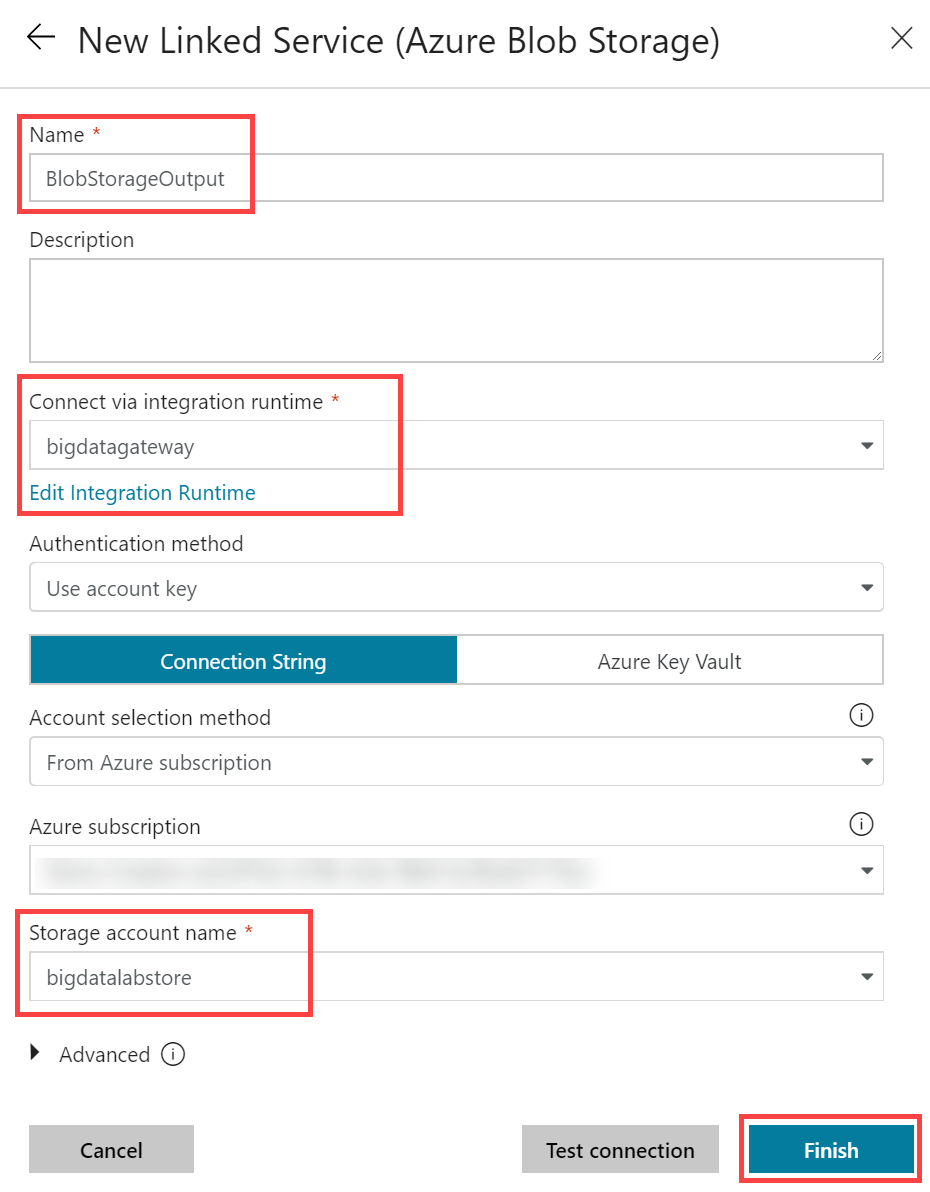
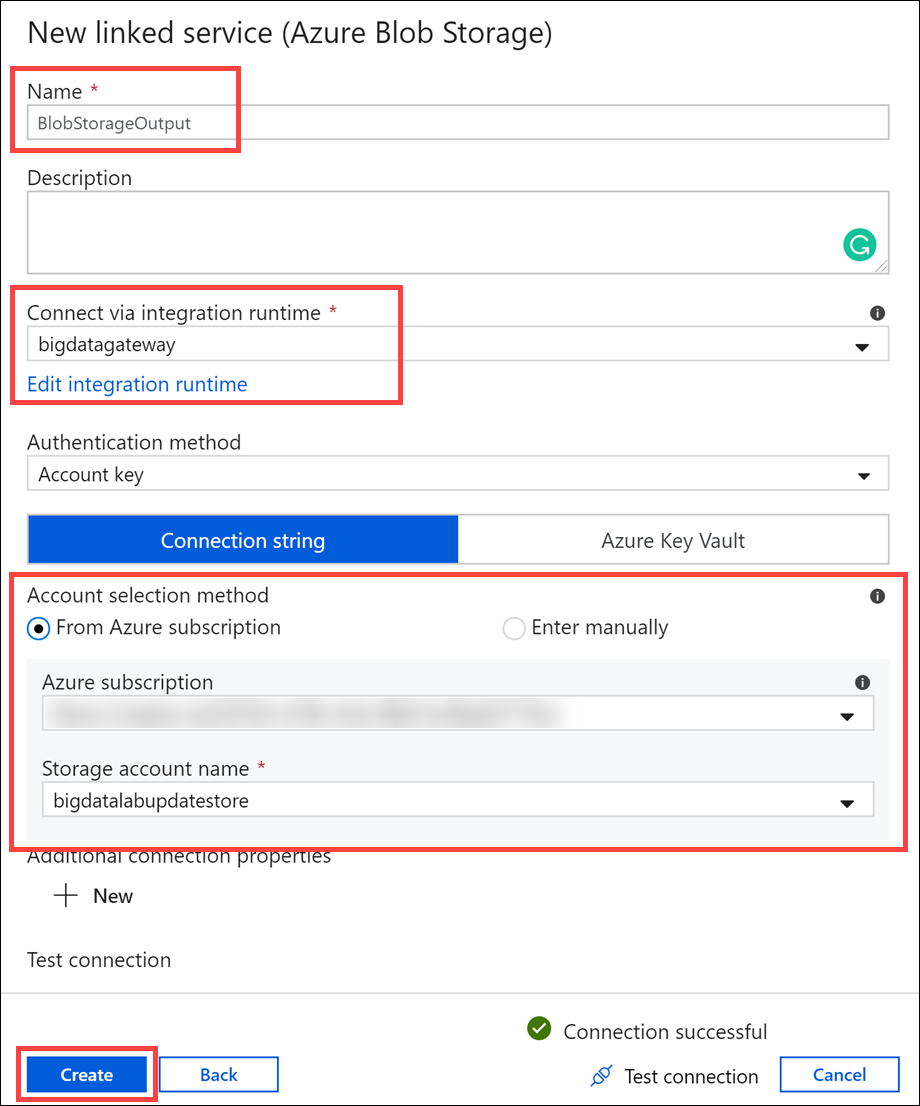
November test/fix updates to lab

diff --git a/Hands-on lab/HOL step-by-step - Big data and visualization.md b/Hands-on lab/HOL step-by-step - Big data and visualization.md
@@ -330,11 +330,11 @@ In this exercise, you will create a baseline environment for Azure Data Factory 
 
    ![Select Connections at the bottom of the page, then select the Integration Runtimes tab, and select New.](media/adf-new-ir.png 'Steps to create a new Integation Runtime connection')
 
-7. In the Integration Runtime Setup blade that appears, select "Perform data movement and dispatch activities to external computes", then select **Next**.
+7. In the Integration Runtime Setup blade that appears, select "Perform data movement and dispatch activities to external computes", then select **Continue**.
 
    ![Select Perform data movement and dispatch activities to external computes](media/adf-ir-setup-1.png 'Integration Runtime Setup step 1')
 
-8. Select **Self-Hosted** then select **Next**.
+8. Select **Self-Hosted** then select **Continue**.
 
    ![Select Private Network then Next](media/adf-ir-setup-2.png 'Integration Runtime Setup step 2')
 
@@ -427,7 +427,7 @@ In this exercise, you will create an Azure Data Factory pipeline to copy data (.
 
    - Password: **Use your machine's login password**.
 
-7. Select **Test connection** to verify you correctly entered the values. Finally, select **Finish**.
+7. Select **Test connection** to verify you correctly entered the values. Finally, select **Create**.
 
    ![On the Copy Data activity, specify File server share connection page, fields are set to the previously defined values.](media/adf-copy-data-linked-service-settings.png 'New Linked Service settings')
 
@@ -449,9 +449,7 @@ In this exercise, you will create an Azure Data Factory pipeline to copy data (.
 
     - Skip line count: **0**
 
-    - Column names in the first row: **Checked**
-
-    - Handle all of the data as strings: **Unchecked**
+    - First row as header: **Checked**
 
     ![Enter the form values](media/adf-copy-data-file-format.png 'File format settings')
 
@@ -463,7 +461,7 @@ In this exercise, you will create an Azure Data Factory pipeline to copy data (.
 
     ![Select Azure Blob Storage, then Continue](media/adf-copy-data-blob-storage.png 'Select Blob Storage')
 
-14. On the New Linked Service (Azure Blob Storage) account screen, enter the following and then choose **Finish**.
+14. On the New Linked Service (Azure Blob Storage) account screen, enter the following and then select **Create**.
 
     - Name: **BlobStorageOutput**
 
@@ -578,7 +576,7 @@ In this exercise, you will extend the Data Factory to operationalize the scoring
 
     ![Copy the generated token](media/databricks-copy-token.png 'Copy generated token')
 
-11. Switch back to your Azure Data Factory screen and paste the generated token into the **Access token** field within the form. After a moment, select your cluster underneath **Choose from existing clusters**. Select **Finish**.
+11. Switch back to your Azure Data Factory screen and paste the generated token into the **Access token** field within the form. After a moment, select your cluster underneath **Choose from existing clusters**. Select **Create**.
 
     ![Paste the generated access token](media/adf-ml-access-token.png 'Paste access token')
 
@@ -837,9 +835,9 @@ To retrieve the 7-day hourly weather forecast, you will use an API from darksky.
 
 1. Install [Visual Studio 2017/2019 Community](https://visualstudio.microsoft.com/downloads/) or greater. Make sure you select the **ASP.NET and web development** and **Azure development** workloads.
 
-    ![The Visual Studio workloads are displayed.](media/vs-workloads.png "Visual Studio workloads")
+   ![The Visual Studio workloads are displayed.](media/vs-workloads.png 'Visual Studio workloads')
 
-    > If you are prompted to sign in to Visual Studio for the first time, enter the Azure account credentials you are using for this lab.
+   > If you are prompted to sign in to Visual Studio for the first time, enter the Azure account credentials you are using for this lab.
 
 2. In a web browser, navigate to the [Big data and visualization MCW repo](https://github.com/microsoft/MCW-Big-data-and-visualization).
 
@@ -853,34 +851,34 @@ To retrieve the 7-day hourly weather forecast, you will use an API from darksky.
 
 6. In the Visual Studio Solution Explorer, right-click on the BigDataTravel project, then select **Publish...**.
 
-    ![The Publish menu item is highlighted in Visual Studio.](media/vs-publish-link.png "Publish")
+   ![The Publish menu item is highlighted in Visual Studio.](media/vs-publish-link.png 'Publish')
 
 7. In the Publish dialog, select the **App Service** publish target, select **Create New**, then click **Publish**.
 
-    ![The App Service target is selected, Create New is selected, and the Publish button is highlighted.](media/vs-publish-target.png "Pick a publish target")
+   ![The App Service target is selected, Create New is selected, and the Publish button is highlighted.](media/vs-publish-target.png 'Pick a publish target')
 
 8. Enter the following into the App Service form that follows, then click **Create**:
 
-    - **Name**: Enter a unique value.
-    - **Subscription**: Choose the Azure subscription you are using for the lab.
-    - **Resource group**: Select the Azure resource group you are using for the lab.
-    - **Hosting Plan**: Select **New**, then create a new Hosting Plan in the same location and the **Free** size.
-    - **Application Insights**: Select **None**.
+   - **Name**: Enter a unique value.
+   - **Subscription**: Choose the Azure subscription you are using for the lab.
+   - **Resource group**: Select the Azure resource group you are using for the lab.
+   - **Hosting Plan**: Select **New**, then create a new Hosting Plan in the same location and the **Free** size.
+   - **Application Insights**: Select **None**.
 
-    ![The form fields are completed using the previously described settings.](media/vs-app-service.png "App Service dialog")
+   ![The form fields are completed using the previously described settings.](media/vs-app-service.png 'App Service dialog')
 
 9. After publishing is completed, open the new App Service located in your resource group in the [Azure portal](https://portal.azure.com).
 
 10. Select **Configuration** in the left-hand menu.
 
-    ![The Configuration menu item is highlighted.](media/app-service-configuration-link.png "App Service")
+    ![The Configuration menu item is highlighted.](media/app-service-configuration-link.png 'App Service')
 
 11. Create the two following **Application settings**, then select **Save**:
 
     - **mlUrl**: Enter the Machine Learning URL. We got this from Azure databricks Notebook #3 in the Exercise 2 folder. If you cleaned your resources at the end of this Notebook #3, you will need to re-run it and keep the web service running to get its associated URL.
     - **weatherApiKey**: Enter the Dark Sky API key.
 
-    ![The two new application settings are shown.](media/app-service-configuration.png "Application settings")
+    ![The two new application settings are shown.](media/app-service-configuration.png 'Application settings')
 
 You will now be able to successfully navigate the web app.
 
